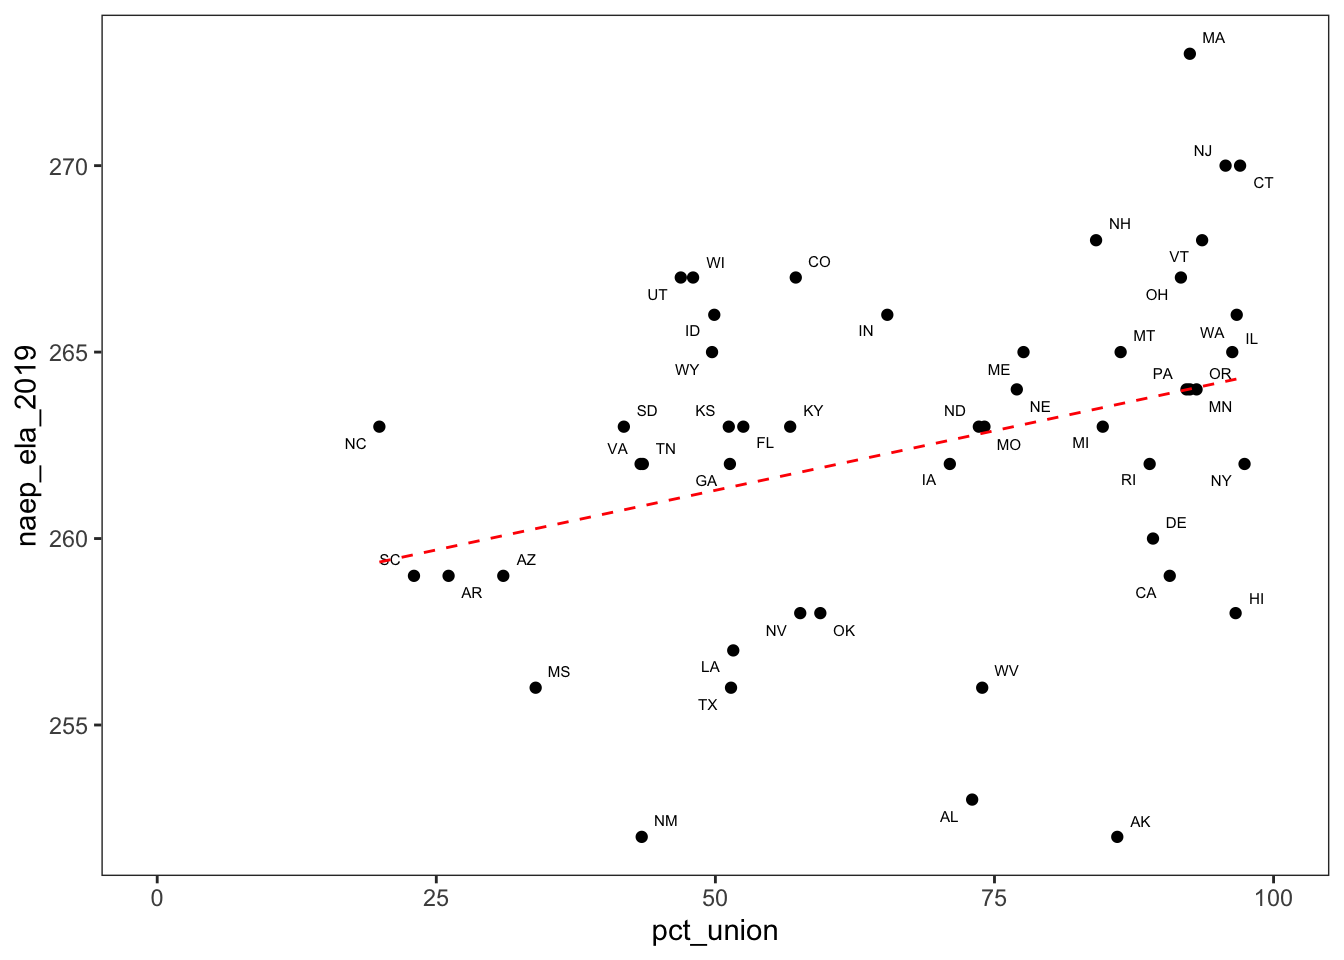
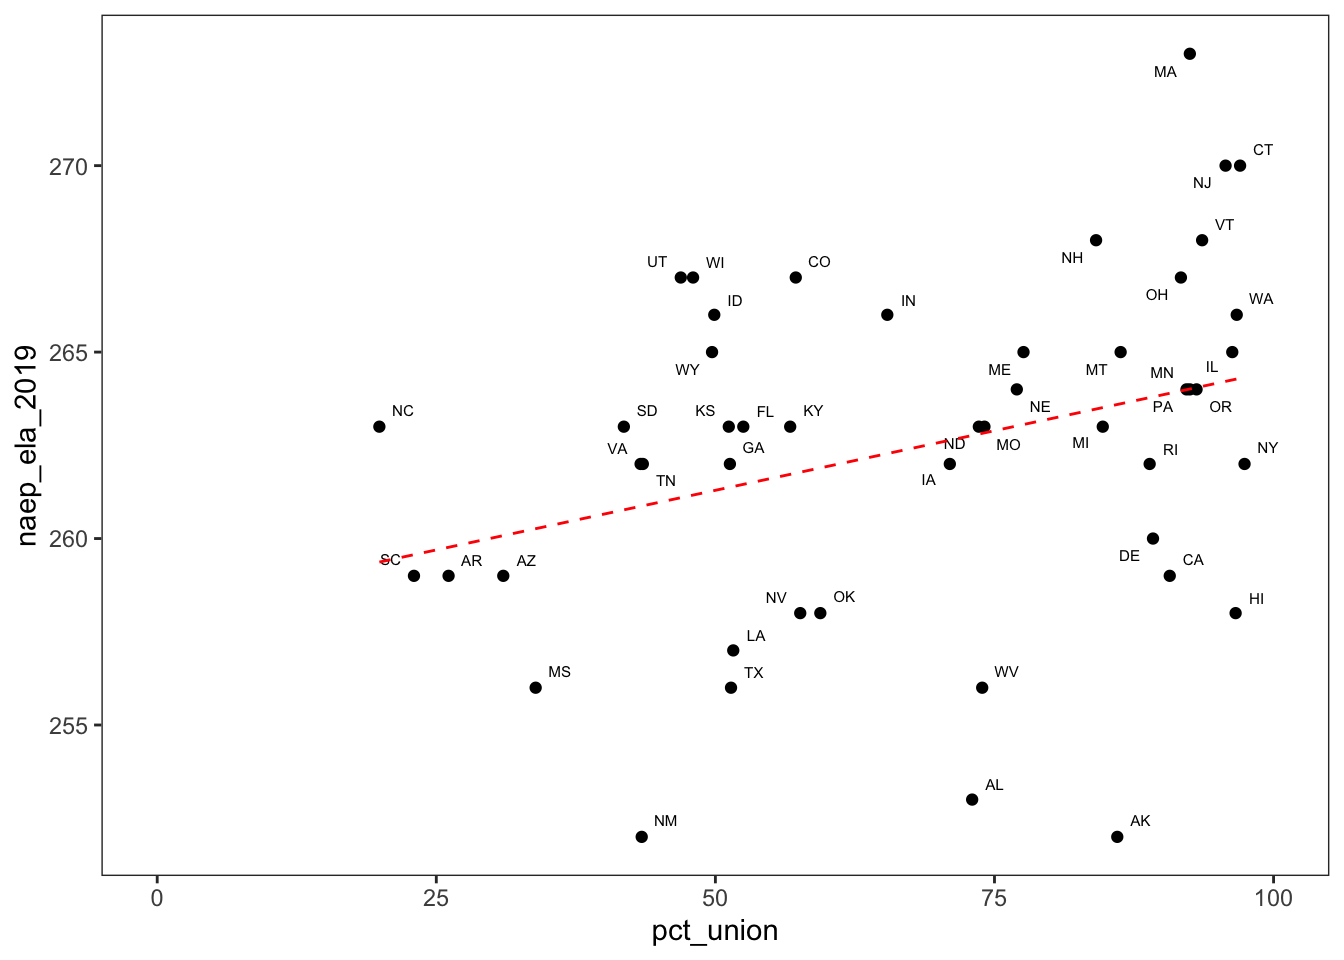
made a few new edits to naep/union blog

diff --git a/content/post/2021-05-17-unionization-and-naep-data/index.html b/content/post/2021-05-17-unionization-and-naep-data/index.html
@@ -16,8 +16,12 @@ description: ''
 <p>As a former teacher, I’m often intrigued by the way in which education issues provoke such strong feelings among non-educators. Teacher unions tend to elicit particularly strong opinions.</p>
 <p>Since so many people have strong opinions about unions, I decided to perform a state-level exploratory analysis of the relationship between test scores and unionization rates.</p>
 </div>
-<div id="where-did-i-find-test-scoress" class="section level1">
-<h1>Where Did I Find Test Scores?s</h1>
+<div id="standard-correlation-vs.-causation-caveat" class="section level1">
+<h1>Standard Correlation vs. Causation Caveat</h1>
+<p>These data are purely correlational. Any inferences made based these charts should be taken with a grain of salt!</p>
+</div>
+<div id="finding-test-scores-data" class="section level1">
+<h1>Finding Test Scores Data</h1>
 <div id="naep" class="section level3">
 <h3>NAEP</h3>
 <p>I used NAEP data for the state-level math and reading scores.<br />
@@ -25,35 +29,58 @@ description: ''
 <ol style="list-style-type: decimal">
 <li>It is generally considered to be high quality</li>
 <li>It has been administered every few years since 1969.</li>
-<li>Usnlike high stakes exams, the same test is administered across the nation.</li>
+<li>Unlike high stakes exams, the same test is administered across the nation.</li>
 </ol>
 </div>
 <div id="why-focus-on-8th-grade-test-scores" class="section level3">
 <h3>Why focus on 8th grade test scores?</h3>
-<p>Each assessment year, a representative sample of students from grades 4, 8, and 12 take the test. I focus on grade 8 instead of grade 12 because there is some concern that seniors do not take the test as seriously. (<a href="https://dianeravitch.net/2015/11/11/a-note-to-marc-tucker-why-i-disagree-with-your-analysis-of-naep-scores/">See here</a>). Consequently, grade 8 is the latest grade for which we ahve data before “senioritis” becomes a concern. I’m also focusing on math and ELA because those are the subjects education researchers tend to focus on although there are NAEP exams for other subjects as well.</p>
+<p>Each assessment year, a representative sample of students from grades 4, 8, and 12 take the test. I focus on grade 8 instead of grade 12 because there is some concern that seniors do not take the test as seriously (<a href="https://dianeravitch.net/2015/11/11/a-note-to-marc-tucker-why-i-disagree-with-your-analysis-of-naep-scores/">See here</a>). Consequently, grade 8 is the latest grade for which we have data before “senioritis” becomes a concern.</p>
 </div>
-</div>
-<div id="standard-correlation-vs.-causation-caveat" class="section level1">
-<h1>Standard Correlation vs. Causation Caveat</h1>
-<p>These data are purely correlational. Any inferences made based these charts should be taken with a grain of salt.</p>
 </div>
 <div id="obtaining-the-data" class="section level1">
 <h1>Obtaining the Data</h1>
 <div id="unionization-data" class="section level3">
 <h3>Unionization Data</h3>
-<p>After a great deal of searching, I was able to find 2017-2018 state-level unionization rates from the <a href="https://nces.ed.gov/surveys/ntps/tables/ntps1718_20111201_t1s.asp">National Teacher and Principal Survey</a>.s
+<p>After a great deal of searching, I was able to find 2017-2018 state-level unionization rates from the <a href="https://nces.ed.gov/surveys/ntps/tables/ntps1718_20111201_t1s.asp">National Teacher and Principal Survey</a>.
 Unfortunately, there was no data from Maryland or DC due to low response rates.</p>
 </div>
 <div id="naep-data" class="section level3">
 <h3>NAEP Data</h3>
 <p>The NAEP data was much easier to find. There is an easy-to-use <a href="https://www.nationsreportcard.gov/ndecore/xplore/NDE">data portal</a> on their website. You can simply select the year, grade-level, subject, and jurisdiction you are looking for. I used this tool to create two state-level datasets with the 2019 math and reading NAEP results.</p>
+<pre class="r"><code>library(dplyr)
+library(ggplot2)
+library(ggrepel)
+
+setwd(&#39;../../..&#39;)
+naep_mth &lt;- read.csv(&#39;data/state_naep_mth2019.csv&#39;)
+naep_ela &lt;- read.csv(&#39;data/state_naep_ela2019.csv&#39;)
+pct_union &lt;- read.csv(&#39;data/state_pct_union.csv&#39;)
+                 
+ed_dta &lt;- naep_mth %&gt;% 
+            inner_join(naep_ela, by = &#39;State&#39;)  %&gt;% 
+            inner_join(pct_union, by = &#39;State&#39;) 
+          
+state_abb &lt;-   append(state.abb, &#39;DC&#39;, after =8) 
+
+ed_dta &lt;- ed_dta %&gt;% 
+            rename(state_name = State) %&gt;% 
+            mutate(state = state_abb)
+
+ed_dta %&gt;%  head()</code></pre>
+<pre><code>##   state_name naep_mth_2019 naep_ela_2019 pct_union state
+## 1    Alabama           269           253      73.0    AL
+## 2     Alaska           274           252      86.0    AK
+## 3    Arizona           280           259      31.0    AZ
+## 4   Arkansas           274           259      26.1    AR
+## 5 California           276           259      90.7    CA
+## 6   Colorado           285           267      57.2    CO</code></pre>
 </div>
 </div>
 <div id="visualizations" class="section level1">
 <h1>Visualizations</h1>
 <div id="reading-tests-and-unionization" class="section level2">
 <h2>Reading Tests and Unionization</h2>
-<p>I used ggplot to create a scatterplot of ELA NAEP scores over unionization rates by state. I used the geom_text_repel() function from ggrepel to ensure that there none of the labels overlap one another. Finally, I used geom_smooth to create a fitted OLS regression line.</p>
+<p>I used ggplot to create a scatterplot of ELA NAEP scores over unionization rates by state. I used the geom_text_repel() function from Kamil Slowikowski’s <a href="https://cran.r-project.org/web/packages/ggrepel/vignettes/ggrepel.html">ggrepel)</a> to ensure that there none of the labels overlap one another. Finally, I used geom_smooth to create a fitted OLS regression line.</p>
 <pre class="r"><code>ed_dta %&gt;% 
   filter_all(~!is.na(.)) %&gt;% 
   ggplot(aes(x=pct_union, y= naep_ela_2019, label = state)) +
@@ -68,8 +95,8 @@ Unfortunately, there was no data from Maryland or DC due to low response rates.<
   theme(panel.grid = element_blank())+
   scale_x_continuous(limits = c(0,100)) </code></pre>
 <p><img src="{{< blogdown/postref >}}index_files/figure-html/ela_union_plot-1.png" width="672" /></p>
-<p>Based on the graph, there may be a correlation between ELA NAEP and unionization although again. Of course,correlation is not causation!</p>
-<p>You could also possibly argue, however, that if we remove Massachusetts and the trend line, that there would be no clear positive relationship. Massachusetts has traditionally been the state with highest test scores and also happens to have a high unionization rate, as do most states in the northeastern United States.</p>
+<p>Based on the graph, there may be a correlation between ELA NAEP and unionization although again. Of course,we know that correlation is not causation!</p>
+<p>However, you could argue that if we remove Massachusetts and the trend line, the positive relationship would not be so apparent. Massachusetts has traditionally been the state with highest test scores, and, as do many other states in the Northeast, it also happens to have a high unionization rate.</p>
 <pre class="r"><code>cor(ed_dta$naep_ela_2019, ed_dta$pct_union, use = &#39;complete.obs&#39;)  %&gt;%  round(2)</code></pre>
 <pre><code>## [1] 0.32</code></pre>
 <p>The correlation between state-level NAEP reading scores and unionization is .32, which is weak to moderate.</p>
@@ -94,11 +121,11 @@ summary(fit)</code></pre>
 ##   (2 observations deleted due to missingness)
 ## Multiple R-squared:  0.1034, Adjusted R-squared:  0.08437 
 ## F-statistic: 5.423 on 1 and 47 DF,  p-value: 0.02422</code></pre>
-<p>The coefficient of unionization is statistically significant. Of course, this evidence is just correlational, so we shouldn’t overinterpret this result. For example, New England states tend to have both high ELA scores and high unionization rates. There could be a confounding variable that could explain why New England states have both high unionization and high reading test scores.</p>
+<p>The coefficient of unionization is statistically significant. Of course, this evidence is just correlational, so we shouldn’t overinterpret this result.</p>
 </div>
 <div id="math-tests-and-unionization" class="section level2">
 <h2>Math Tests and Unionization</h2>
-<p>I also plotted NAEP math scores over unionization. The correlation appears to be weaker based on the scatter plot.</p>
+<p>I also plotted NAEP math scores over unionization. The correlation appears to be weaker based on the scatterplot.</p>
 <pre class="r"><code>ed_dta %&gt;% 
   filter_all(~!is.na(.)) %&gt;% 
   ggplot(aes(x=pct_union, y= naep_mth_2019, label = state)) +
@@ -154,10 +181,9 @@ ed_dta %&gt;%
 <pre><code>##    state_name naep_mth_rnk_2019 naep_ela_rnk_2019
 ## 1 Connecticut                 9                 2
 ## 2   Minnesota                 3                17</code></pre>
-<p>I decided explore the relationship between reading and math scores.</p>
-<pre class="r"><code>#### Math / ELA ####
-
-ed_dta %&gt;% 
+<p>I decided explore the relationship between reading and math scores by creating another scatterplot with reading scores on the y-axis and math scores on the x-axis.
+In this plot, the relationship between reading and math test scores are clearly more highly correlated than the relationships we saw in the previous plots.</p>
+<pre class="r"><code>ed_dta %&gt;% 
   ggplot(aes(x=naep_mth_2019, y= naep_ela_2019, label = state)) +
   geom_point() +
   geom_text_repel(size = 2) +
@@ -168,7 +194,8 @@ ed_dta %&gt;%
               size = 0.5) +
   theme_bw() +
   theme(panel.grid = element_blank()) </code></pre>
-<p><img src="{{< blogdown/postref >}}index_files/figure-html/unnamed-chunk-6-1.png" width="672" /></p>
+<p><img src="{{< blogdown/postref >}}index_files/figure-html/ela_math_plot-1.png" width="672" /></p>
+<p>The relationship between math and reading NAEP scores was statistically significant, as was fairly obviously from the scatterplot as well.</p>
 <pre class="r"><code>fit &lt;- ed_dta %&gt;%  
   lm(formula =naep_ela_2019 ~ naep_mth_2019)
 summary(fit)</code></pre>
@@ -190,15 +217,12 @@ summary(fit)</code></pre>
 ## Residual standard error: 2.239 on 49 degrees of freedom
 ## Multiple R-squared:  0.7913, Adjusted R-squared:  0.787 
 ## F-statistic: 185.8 on 1 and 49 DF,  p-value: &lt; 2.2e-16</code></pre>
+<p>The Pearson correlation coefficient was 0.89, indicating a strong correlation between the two.</p>
 <pre class="r"><code>cor(ed_dta$naep_mth_2019, ed_dta$naep_ela_2019) %&gt;%  round(2)</code></pre>
 <pre><code>## [1] 0.89</code></pre>
-<p>The relationship between math and reading NAEP scores was statistically significant, as was fairly obviously from the scatterplot as well. The Pearson correlation coefficient was 0.89, indicating a strong correlation between the two.</p>
-<p>Of course, it’s not very suprising that reading and math scores are highly correlated . What I find more interesting are the outlier states in which one subject test score is much lower or higher than you would predict given the other score. Alaska, Texas, and Minnesota seem to have much lower ELA scores than you would expect given their math scores. This is apparent based on how far they lie below the regression line. On the other hand, based on how far it lies above the regression,Connecticut has much lower math scores given what you predict given their te</p>
-<p>Observing these outlier states generates some new interesting questions that I hadn’t thought about when I first tackled. Why do some states do better on one subject compared to another (or is it just noise)? Is there something about Texas, Alaska, and Minnesota that explains there overperformance in math relative to reading? This question seems potentially more interesting than the unionization relationshi because the correlation in the first two plots was much weaker and confounding was likely to be an issue. In addition, unionization seems to be a much more contentious subject in which people may base their arguments more on their ideology rather than empirical evidence. I always feel nervous venturing into these heated topic. In contrast, I doubt people have a strong ideological view for why Minnesotan eight-graders scored higher in math than in English.</p>
 </div>
-</div>
-<div id="ploting-math-and-ela-with-unionization-as-a-categorical-factor" class="section level1">
-<h1>Ploting Math and ELA with Unionization as a Categorical Factor</h1>
+<div id="ploting-math-and-ela-with-unionization-as-a-categorical-factor" class="section level2">
+<h2>Ploting Math and ELA with Unionization as a Categorical Factor</h2>
 <p>In order to retain the unionization rates, I created a factor that binned this variable into two categorizes based on an 80% threshold.</p>
 <pre class="r"><code>ed_dta &lt;-ed_dta %&gt;% 
   mutate(unionized = as.factor(if_else(pct_union &gt;= 80,  &quot;80% or Above&quot;, &quot;Below 80%&quot;)))
@@ -218,14 +242,29 @@ summary(fit)</code></pre>
   theme_bw() +
   theme(panel.grid = element_blank())  +
     scale_color_manual(values = c(&#39;blue&#39;, &#39;red&#39;))</code></pre>
-<p><img src="{{< blogdown/postref >}}index_files/figure-html/unnamed-chunk-8-1.png" width="672" /></p>
-<p>One thing that seemed interesting to me based on this final graph was that Wisconsin seemed liked an outlier in that it was the only state in the Great Lakes region that had a unionization rate below 80%. Also among the states below the 80% unionization threshold, it had the highest math score and among the highest reading scores. Of course, again this evidence is completely descriptive. That being said I do find plotting reading and math together gives a fuller picture of student performance.</p>
+<p><img src="{{< blogdown/postref >}}index_files/figure-html/unnamed-chunk-2-1.png" width="672" /></p>
+<p>One interesting about this final graph was that Wisconsin was the only state in the Great Lakes region that had a unionization rate below 80%. Also among the states below the 80% unionization threshold, it had the highest math score and among the highest reading scores. Plotting reading and math together gives a fuller picture of student performance.</p>
+</div>
+</div>
+<div id="why-do-students-in-minnesota-peform-better-in-math-than-reading" class="section level1">
+<h1>Why Do Students in Minnesota Peform Better in Math than Reading?</h1>
+<p>Of course, it’s not very surprising that reading and math scores are highly correlated . What I find more interesting are the states in which students performed better in one subject than the other. For example, Alaska, Texas, and Minnesota seem to have much lower ELA scores than you would expect given their math scores. This is apparent based on how far they lie below the regression line. On the other hand, based on how far it lies above the regression, Connecticut has much lower math scores given what you predict given its reading scores.</p>
+<p>Observing these outliers generates some new interesting questions that I hadn’t thought about when I first tackled.</p>
+<ul>
+<li>
+Why do some states do better on one subject compared to another (or is it just noise)?
+</li>
+<li>
+Is there something about Texas, Alaska, and Minnesota that explains their in math relative to reading?
+</li>
+</ul>
+<p>Although the initial question about teacher unions was intersting, these new questions about discrepancies reading/math performance may contain more unexplored territory.</p>
 </div>
 <div id="conlusions" class="section level1">
 <h1>Conlusions</h1>
 <ol style="list-style-type: decimal">
-<li>Running into obstacles while trying new things can open new doors. Having difficulty creating plots wihtout overlapping state labels led me to find ggrepel, which is a really cool package.</li>
-<li>Sometimes, exploring data can lead to more interesting questions than you had apriori.</li>
-<li>It is often useful to explore as more than one dimension. The math/reading scatterplots helped us to look at two dimension of student performance that weren’t evident in the first two plots. Adding colors to the final plot allowed us to explore an additional dimension, namely unionization rates. In news article, reading and math scores (more often from the PISA which is an international assessment) are often cited separatedly. Citing subjects separately can provide a misleading picture for countries and states that perform better in one subject than another (e.g. the United States usually performs better in reading than in math on the PISA). Plotting math and reading scores together can provide a fuller picture of student performance.</li>
+<li><p>Running into obstacles while trying new things can open new doors. Having difficulty creating plots without overlapping state labels led me to find ggrepel, which is a really cool package.</p></li>
+<li><p>Sometimes, exploring data can lead to more interesting questions than you had a priori.</p></li>
+<li><p>It is often useful to explore as more than one dimension. The math/reading scatterplots helped us to look at two dimension of student performance that weren’t evident in the first two plots.</p></li>
 </ol>
 </div>
